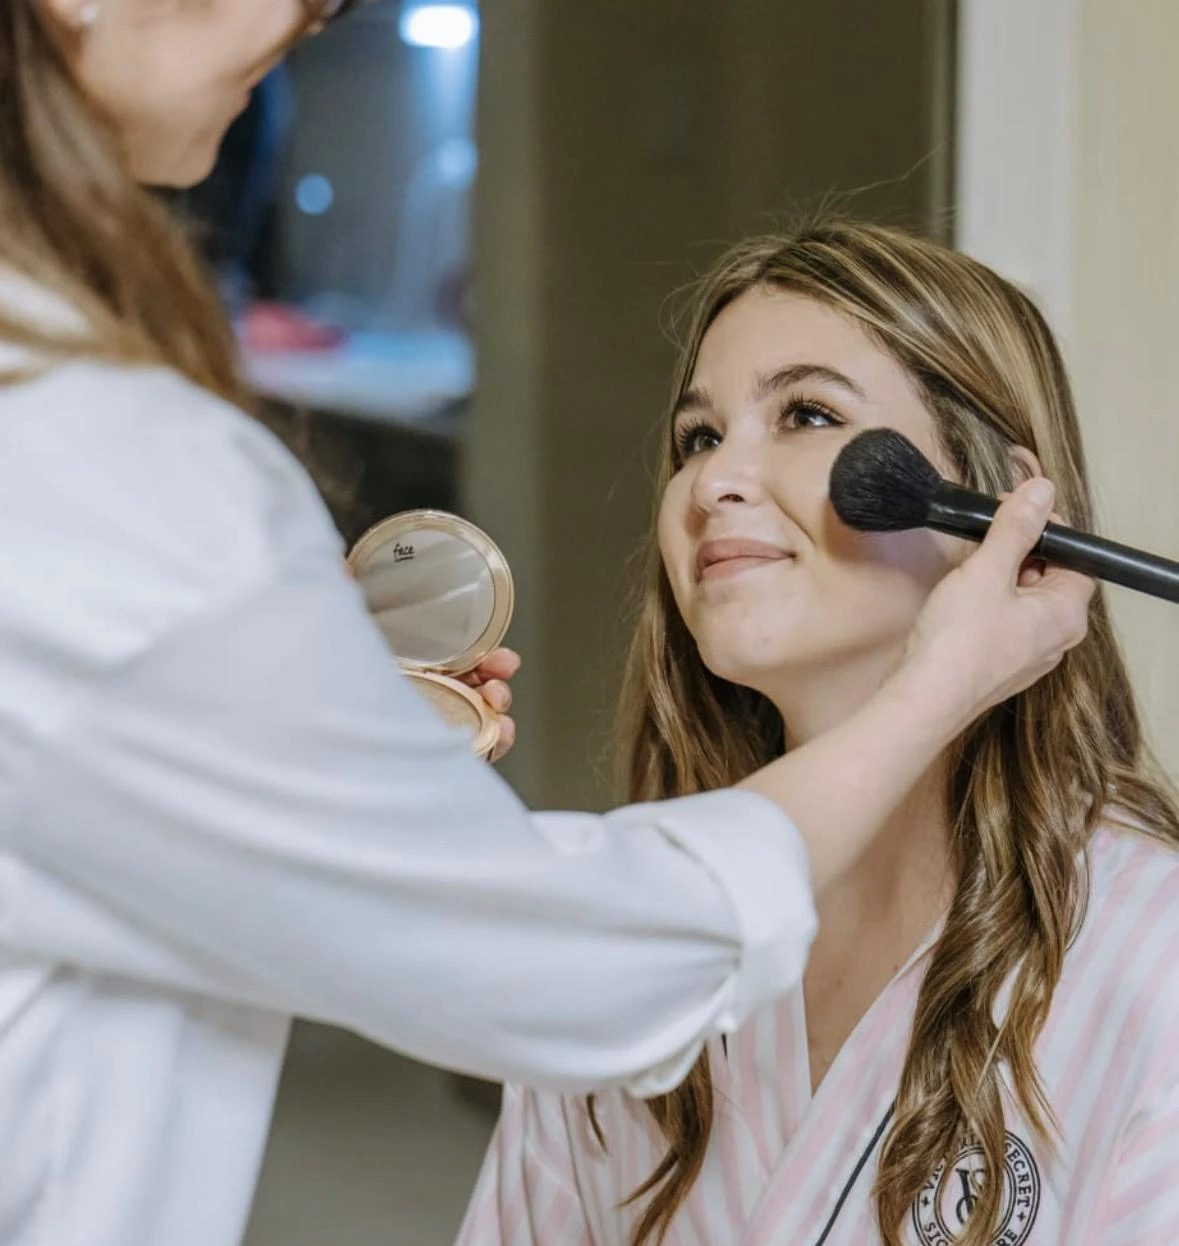
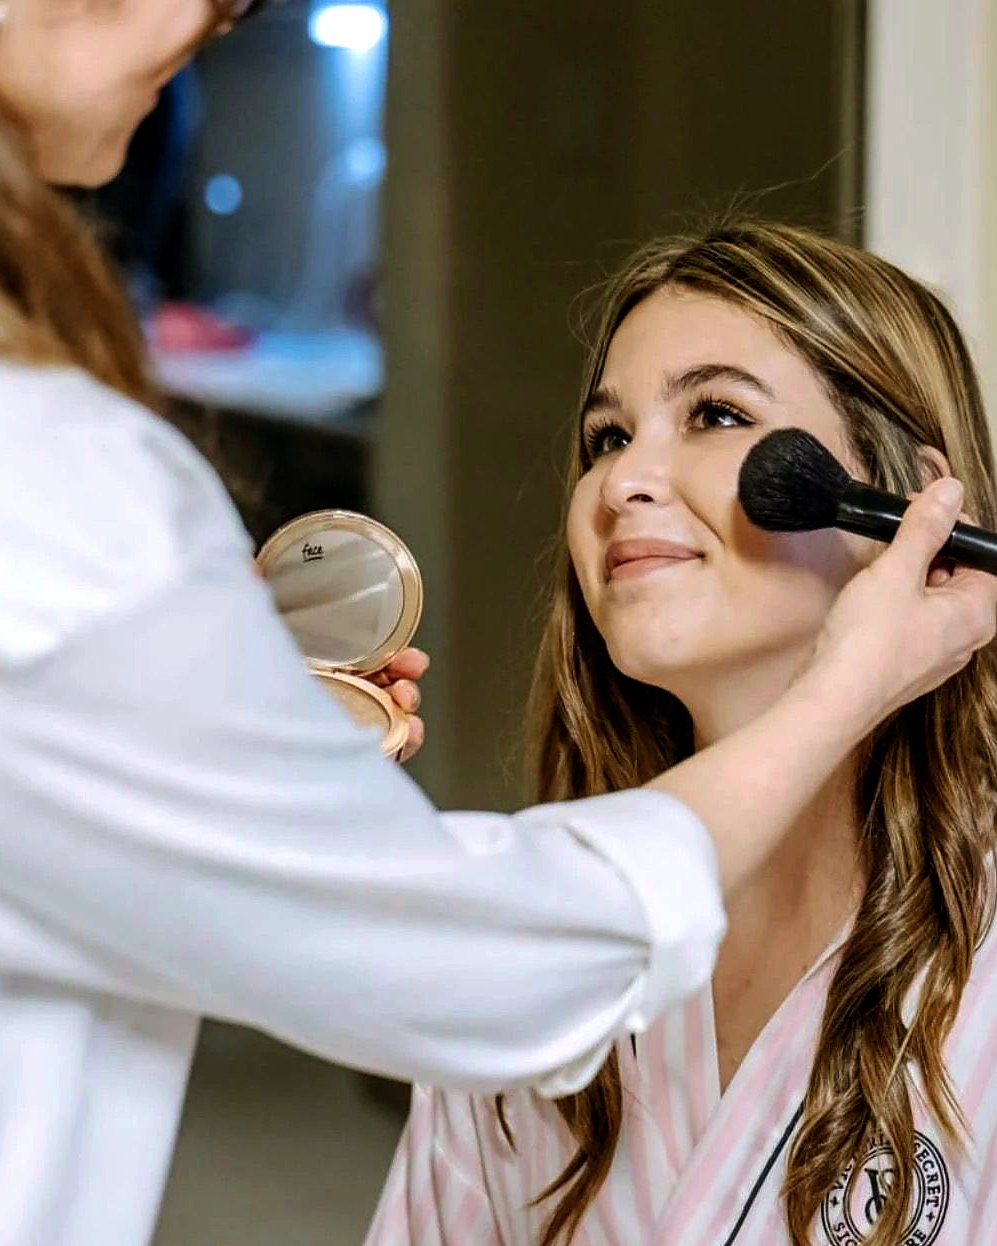
Unify service photos: consistent crop, tone and color

diff --git a/styles.css b/styles.css
@@ -218,7 +218,7 @@ em { font-style: italic; }
 .list-clean li strong { font-weight: 500; }
 .gallery { padding: 0 0 100px; }
 .gallery-grid { display: grid; grid-template-columns: repeat(3, 1fr); gap: 22px; }
-.gallery-item { position: relative; overflow: hidden; aspect-ratio: 3 / 4; background: var(--paper); }
+.gallery-item { position: relative; overflow: hidden; aspect-ratio: 4 / 5; background: var(--paper); }
 .gallery-item:nth-child(2) { margin-top: 56px; }
 .gallery-item img { width: 100%; height: 100%; object-fit: cover; }
 .next { display: block; background: var(--ink); color: var(--white); padding: 84px 0; position: relative; overflow: hidden; }
